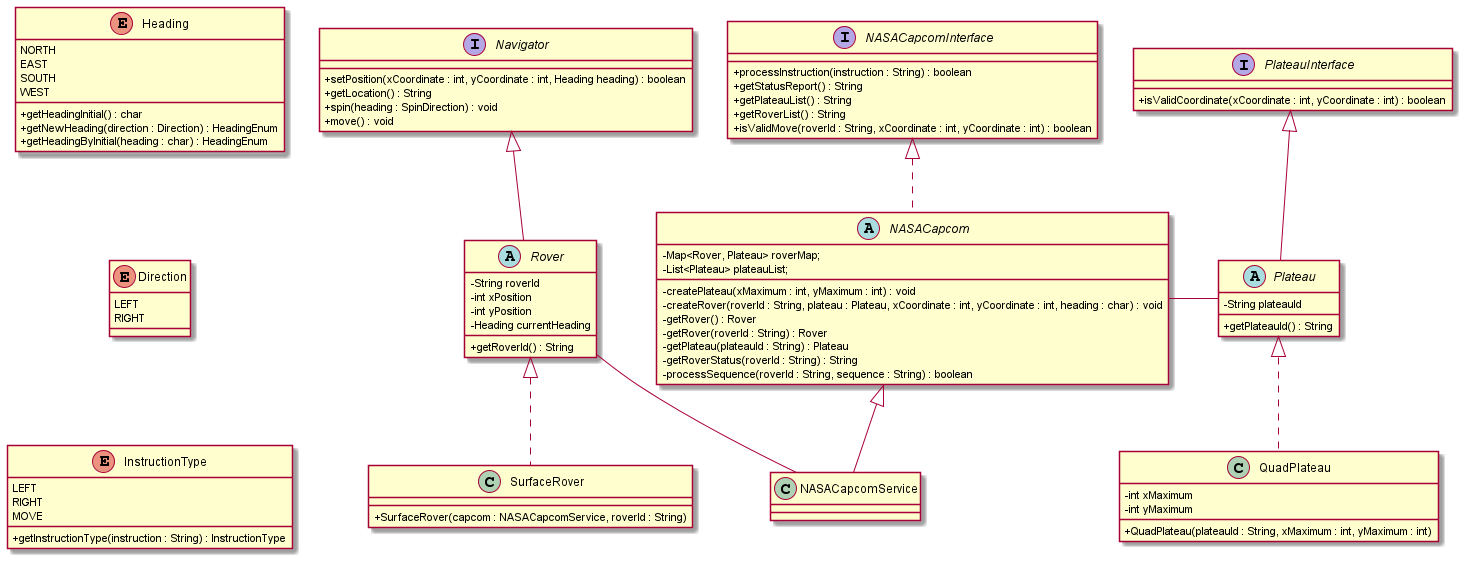
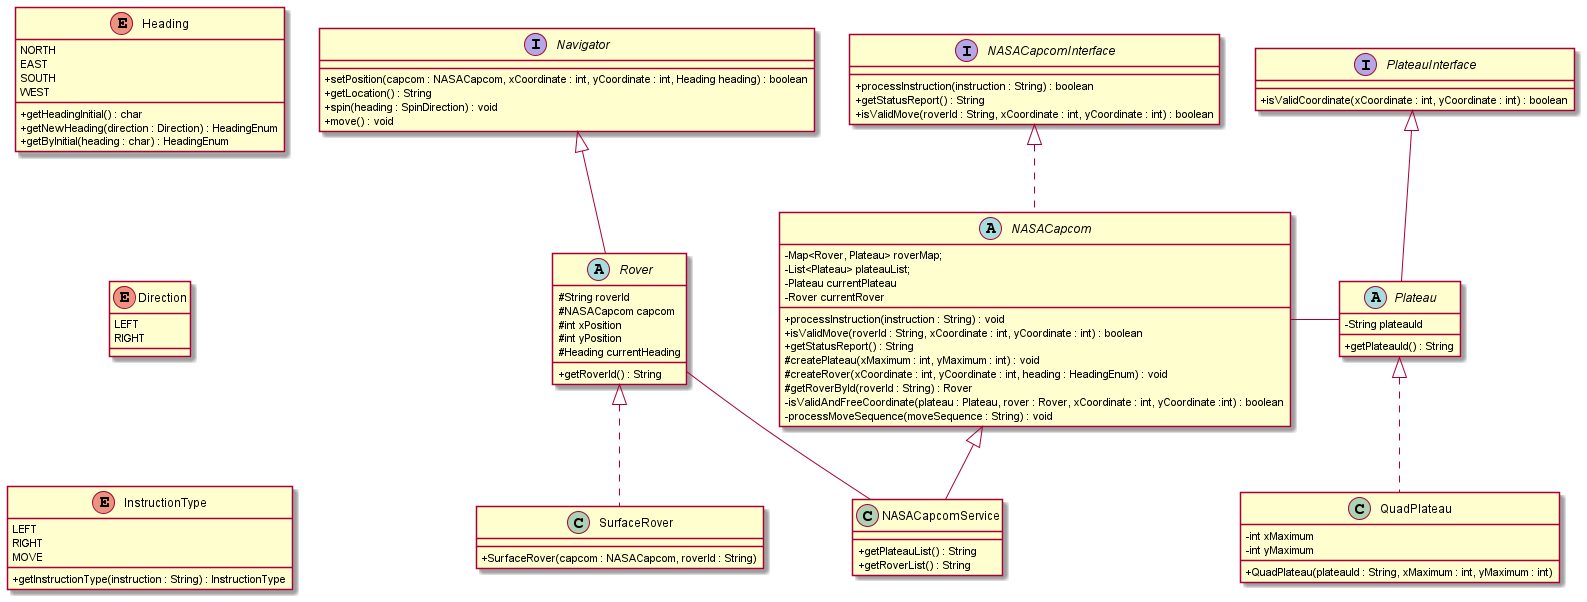
Added unknown rover check.  Tidying code. Updated UML

diff --git a/src/test/java/com/probert999/marsrover/InstructionTypeEnumTest.java b/src/test/java/com/probert999/marsrover/InstructionTypeEnumTest.java
@@ -3,10 +3,7 @@ package com.probert999.marsrover;
 import com.probert999.marsrover.model.InstructionTypeEnum;
 import org.junit.jupiter.api.Test;
 import org.junit.jupiter.params.ParameterizedTest;
-import org.junit.jupiter.params.provider.Arguments;
-import org.junit.jupiter.params.provider.MethodSource;
-
-import java.util.stream.Stream;
+import org.junit.jupiter.params.provider.ValueSource;
 
 import static org.junit.jupiter.api.Assertions.assertEquals;
 
@@ -16,7 +13,6 @@ public class InstructionTypeEnumTest {
     public void shouldRecogniseACreatePlateauInstructionUsingSingleDigits()
     {
         String instruction = "5 5";
-
         assertEquals(InstructionTypeEnum.CREATE_PLATEAU, InstructionTypeEnum.getInstructionType(instruction));
     }
 
@@ -24,7 +20,6 @@ public class InstructionTypeEnumTest {
     public void shouldRecogniseACreatePlateauInstructionUsingDoubleDigits()
     {
         String instruction = "10 10";
-
         assertEquals(InstructionTypeEnum.CREATE_PLATEAU, InstructionTypeEnum.getInstructionType(instruction));
     }
 
@@ -32,7 +27,6 @@ public class InstructionTypeEnumTest {
     public void shouldRecogniseACreatePlateauInstructionUsingMaxDigits()
     {
         String instruction = "1000000 1000000";
-
         assertEquals(InstructionTypeEnum.CREATE_PLATEAU, InstructionTypeEnum.getInstructionType(instruction));
     }
 
@@ -40,7 +34,6 @@ public class InstructionTypeEnumTest {
     public void shouldRejectACreatePlateauInstructionUsingMoreThanMaxDigits()
     {
         String instruction = "10000000 10000000";
-
         assertEquals(InstructionTypeEnum.INVALID_INSTRUCTION, InstructionTypeEnum.getInstructionType(instruction));
     }
 
@@ -48,7 +41,6 @@ public class InstructionTypeEnumTest {
     public void shouldRecogniseACreateRoverInstruction()
     {
         String instruction = "5 5 N";
-
         assertEquals(InstructionTypeEnum.CREATE_ROVER, InstructionTypeEnum.getInstructionType(instruction));
     }
 
@@ -56,7 +48,6 @@ public class InstructionTypeEnumTest {
     public void shouldRecogniseACreateRoverInstructionWithTwoDigitCoordinates()
     {
         String instruction = "50 50 N";
-
         assertEquals(InstructionTypeEnum.CREATE_ROVER, InstructionTypeEnum.getInstructionType(instruction));
     }
 
@@ -64,7 +55,6 @@ public class InstructionTypeEnumTest {
     public void shouldRecogniseACreateRoverInstructionWithMaxDigitCoordinates()
     {
         String instruction = "9999999 9999999 N";
-
         assertEquals(InstructionTypeEnum.CREATE_ROVER, InstructionTypeEnum.getInstructionType(instruction));
     }
 
@@ -72,46 +62,21 @@ public class InstructionTypeEnumTest {
     public void shouldRejectACreateRoverInstructionUsingMoreThanMaxDigits()
     {
         String instruction = "10000000 10000000 N";
-
         assertEquals(InstructionTypeEnum.INVALID_INSTRUCTION, InstructionTypeEnum.getInstructionType(instruction));
     }
 
     @ParameterizedTest
-    @MethodSource("validMoveInstructionTestData")
+    @ValueSource(strings = {"L","R","M","LL","RR","MM","LMLMLMLMM","MMRMMRMRRM"})
     public void shouldRecogniseValidRoverMoveInstructionsFromTestData(String instruction)
     {
         assertEquals(InstructionTypeEnum.MOVE_ROVER, InstructionTypeEnum.getInstructionType(instruction));
     }
 
-    public static Stream<Arguments> validMoveInstructionTestData() {
-        return Stream.of(
-                Arguments.of("L"),
-                Arguments.of("R"),
-                Arguments.of("M"),
-                Arguments.of("LL"),
-                Arguments.of("RR"),
-                Arguments.of("MM"),
-                Arguments.of("LMLMLMLMM"),
-                Arguments.of("MMRMMRMRRM")
-                );
-    }
-
     @ParameterizedTest
-    @MethodSource("invalidInstructionTestData")
+    @ValueSource(strings = {"", "10", "10 L S", "L 10 S", "S 10 10","X"})
     public void shouldRejectAnInvalidInstructions(String instruction)
     {
         assertEquals(InstructionTypeEnum.INVALID_INSTRUCTION, InstructionTypeEnum.getInstructionType(instruction));
-    }
-
-    public static Stream<Arguments> invalidInstructionTestData() {
-        return Stream.of(
-                Arguments.of(""),
-                Arguments.of("10"),
-                Arguments.of("10 L S"),
-                Arguments.of("L 10 S"),
-                Arguments.of("S 10 10"),
-                Arguments.of("X")
-        );
     }
 
 }

diff --git a/src/main/java/com/probert999/marsrover/app/Main.java b/src/main/java/com/probert999/marsrover/app/Main.java
@@ -3,7 +3,6 @@ package com.probert999.marsrover.app;
 import com.probert999.marsrover.service.NASACapcomService;
 
 import java.io.File;
-import java.io.FileNotFoundException;
 import java.io.InputStream;
 import java.util.Scanner;
 
@@ -13,12 +12,12 @@ public class Main {
   private static final String CMD_PLATEAU_LIST = "LIST PLATEAUS";
   private static final String CMD_ROVER_LIST = "LIST ROVERS";
 
-
   public static void main(String[] args) {
-    start(System.in, args);
+    NASACapcomService capcom = new NASACapcomService();
+    start(capcom, System.in, args);
   }
 
-  public static String start(InputStream ins, String[] args)  {
+  public static String start(NASACapcomService capcom, InputStream ins, String[] args)  {
 
     System.out.println("\n* NASA Capcom for Mars Rover *");
 
@@ -29,7 +28,7 @@ public class Main {
     {
       // process console
       in = new Scanner(ins);
-      statusReport = processLoop(in, false);
+      statusReport = processLoop(capcom, in, false);
     }
     else
     {
@@ -37,7 +36,7 @@ public class Main {
       File file = new File(args[0]);
       try {
         in = new Scanner(file);
-        statusReport = processLoop(in, true);
+        statusReport = processLoop(capcom, in, true);
         in.close();
       }
       catch (Exception e)  {
@@ -48,11 +47,9 @@ public class Main {
     return statusReport;
   }
 
-  private static String processLoop(Scanner in, boolean fromFile)
+  private static String processLoop(NASACapcomService capcom, Scanner in, boolean fromFile)
   {
-    NASACapcomService capcom = new NASACapcomService();
-
-    String instruction = "";
+    String instruction;
     boolean processing = true;
     while (processing) {
       try {
@@ -70,12 +67,12 @@ public class Main {
           case CMD_PLATEAU_LIST -> System.out.println(capcom.getPlateauList());
           case CMD_ROVER_LIST -> System.out.println(capcom.getRoverList());
           case CMD_FINISH -> processing = false;
-          default ->  {capcom.processInstruction(instruction); System.out.println("Processed instruction");}
+          default ->  {capcom.processInstruction(instruction);
+                        System.out.println("Processed instruction");}
         }
 
       } catch (Exception e)  {
         System.out.println(e.getMessage());
-          processing = false;
       }
     }
     return capcom.getStatusReport();

diff --git a/src/test/java/com/probert999/marsrover/MainTest.java b/src/test/java/com/probert999/marsrover/MainTest.java
@@ -1,24 +1,51 @@
 package com.probert999.marsrover;
 
 import com.probert999.marsrover.app.Main;
+import com.probert999.marsrover.service.NASACapcomService;
 import org.junit.jupiter.api.Test;
 
 import java.io.ByteArrayInputStream;
 import java.io.InputStream;
 
-import static org.junit.jupiter.api.Assertions.assertEquals;
+import static org.junit.jupiter.api.Assertions.*;
 
 public class MainTest {
 
     @Test
     public void shouldTakeUserInput() {
-        Main main = new Main();
+        NASACapcomService capcom = new NASACapcomService();
         String[] args = new String[0];
         String input = "5 5\n1 2 N\nLMLMLMLMM\nfinish";
         InputStream in = new ByteArrayInputStream(input.getBytes());
         System.setIn(in);
 
-        assertEquals("1 3 N",  Main.start(in,args));
+        assertEquals("1 3 N",  Main.start(capcom, in,args));
     }
+
+    @Test
+    public void shouldTakeFileAsInputToStartMethod() {
+        NASACapcomService capcom = new NASACapcomService();
+        String[] args = {"testdata\\shouldTakeFileInputTest.txt"};
+        InputStream in = System.in;
+        assertEquals("1 3 N",  Main.start(capcom, in,args));
+    }
+
+    @Test
+    public void shouldStopProcessingIfFileNotFound() {
+        NASACapcomService capcom = new NASACapcomService();
+        String[] args = {"nosuchfile.nosuchfile"};
+        InputStream in = System.in;
+        assertNull(Main.start(capcom, in,args));
+    }
+
+    @Test
+    public void shouldHandleInvalidCommandInFile() {
+        NASACapcomService capcom = new NASACapcomService();
+        String[] args = {"testdata\\shouldHandleInvalidCommandInFile.txt"};
+        InputStream in = System.in;
+        assertEquals("1 3 N",  Main.start(capcom,in,args));
+    }
+
+
 
 }

diff --git a/src/main/java/com/probert999/marsrover/model/NASACapcom.java b/src/main/java/com/probert999/marsrover/model/NASACapcom.java
@@ -37,9 +37,14 @@ public abstract class NASACapcom implements NASACapcomInterface {
 
   protected Rover getRoverById(String roverId)
   {
+    Rover rover = null;
     Predicate<Map.Entry<Rover, Plateau>> roverFilter = r -> r.getKey().getRoverId().equals(roverId);
-    Optional<Map.Entry<Rover, Plateau>> rover = roverMap.entrySet().stream().filter(roverFilter).findFirst();
-    return rover.get().getKey();
+    Map.Entry<Rover, Plateau> roverEntry = roverMap.entrySet().stream().filter(roverFilter).findFirst().orElse(null);
+    if (roverEntry != null)
+    {
+      rover = roverEntry.getKey();
+    }
+    return rover;
   }
 
   protected void createPlateau(int xMaximum, int yMaximum) {
@@ -105,13 +110,17 @@ public abstract class NASACapcom implements NASACapcomInterface {
   public boolean isValidMove(String roverId, int xCoordinate, int yCoordinate)
   {
     Rover rover = getRoverById(roverId);
-    Plateau checkPlateau = roverMap.get(rover);
 
-    return isValidAndFreeCoordinate(checkPlateau, rover, xCoordinate, yCoordinate);
+    if (rover == null)
+      throw new IllegalStateException("Unknown Rover Id");
+
+    Plateau getRoverPlateau = roverMap.get(rover);
+
+    return isValidAndFreeCoordinate(getRoverPlateau, rover, xCoordinate, yCoordinate);
   }
 
 
-  public void processMoveSequence(String moveSequence)
+  private void processMoveSequence(String moveSequence)
   {
     char[] moves = moveSequence.toCharArray();
     for (char move : moves) {

diff --git a/src/test/java/com/probert999/marsrover/NASACapcomTest.java b/src/test/java/com/probert999/marsrover/NASACapcomTest.java
@@ -98,6 +98,17 @@ public class NASACapcomTest {
   }
 
   @Test
+  public void shouldHandleInvalidMoveCallFromUnknownRover() {
+    NASACapcomService capcom = new NASACapcomService();
+
+    capcom.processInstruction("5 5");
+    capcom.processInstruction("0 0 N");
+
+    assertThrows( IllegalStateException.class, () -> capcom.isValidMove("NotARover-X", 0, 0));
+  }
+
+
+  @Test
   public void shouldNotBeAbleToMoveRoverToAnInvalidSpaceFromInstruction() {
     NASACapcomService capcom = new NASACapcomService();
 
@@ -236,7 +247,6 @@ public class NASACapcomTest {
     NASACapcomService capcom = new NASACapcomService();
 
     capcom.processInstruction("10 10");
-
     assertEquals("Plateau-1 (10,10)", capcom.getPlateauList());
   }
 
@@ -244,7 +254,6 @@ public class NASACapcomTest {
   public void shouldProduceStatusReportForNoRovers()
   {
     NASACapcomService capcom = new NASACapcomService();
-
     assertEquals("No rovers to report",capcom.getRoverList());
   }
 
@@ -252,7 +261,6 @@ public class NASACapcomTest {
   public void shouldProduceStatusReportForNoPlateaus()
   {
     NASACapcomService capcom = new NASACapcomService();
-
     assertEquals("No plateaus to report",capcom.getPlateauList());
   }
 }

diff --git a/src/test/java/com/probert999/marsrover/HeadingEnumTest.java b/src/test/java/com/probert999/marsrover/HeadingEnumTest.java
@@ -61,7 +61,7 @@ public class HeadingEnumTest {
     }
 
     @Test
-    public void shouldThrowAnExceptionFromgetByInitialWithInvalidInitial() {
+    public void shouldThrowAnExceptionFromGetByInitialWithInvalidInitial() {
         assertThrows(
                 IllegalArgumentException.class, () -> HeadingEnum.getByInitial('X'));
 
